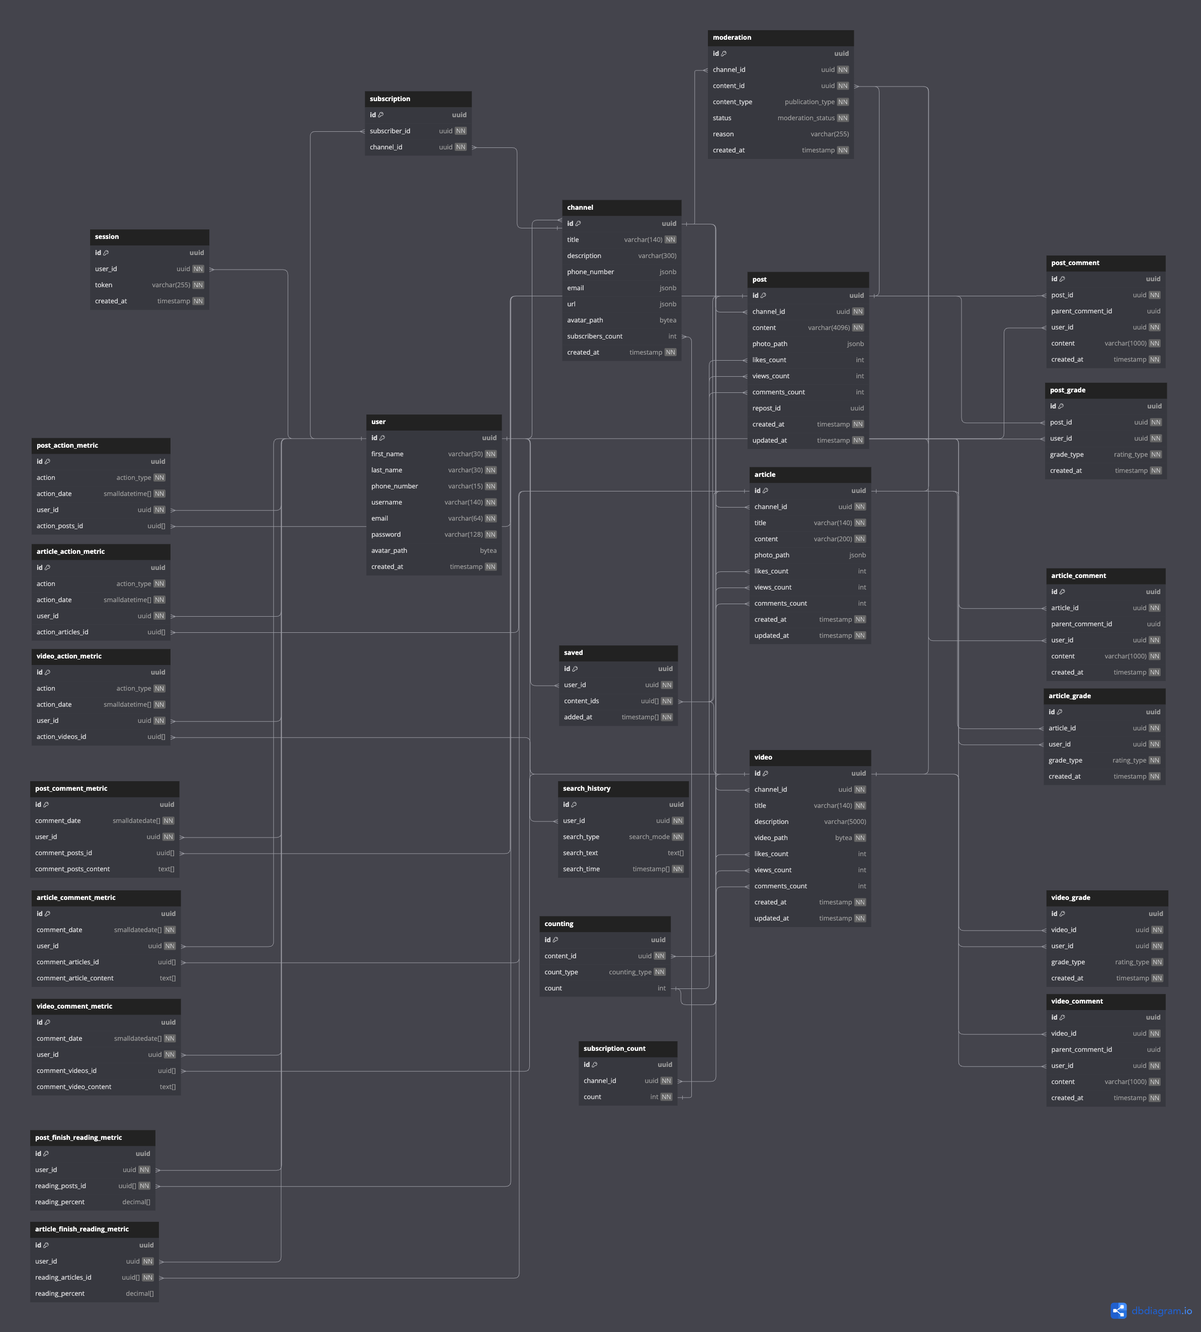
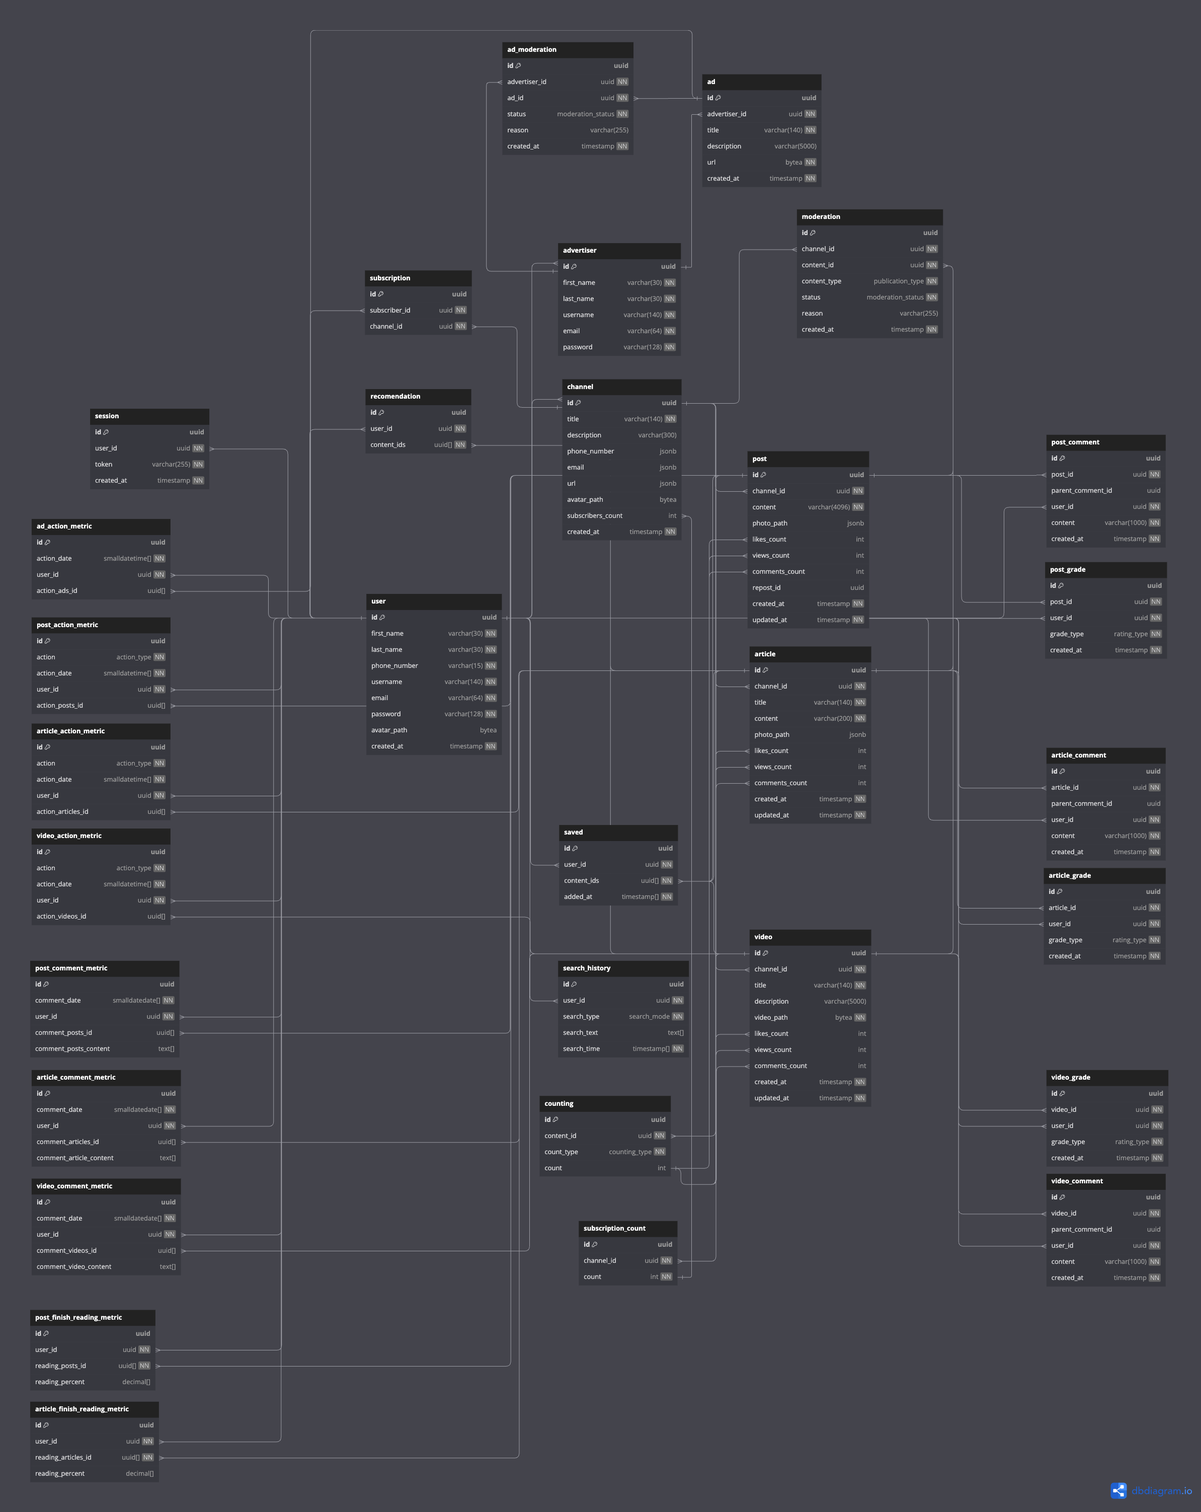
add ads2

diff --git a/README.md b/README.md
@@ -250,12 +250,15 @@ Nginx вместе с Kubernetes могут обеспечить высокую 
 |:----------------------:|:-----------------------------:|
 |        session         |Данные сессий пользователей|
 |         user           |Данные пользователя, которые заполняются при регистрации и дальнейшего заполнения профиля|
+|         advertiser           |Данные рекламодателя, которые заполняются при регистрации и дальнейшего заполнения профиля|
 |         channel        |Данные канала, которые заполняются при создании и приобретаемые после (количество подписчиков, которое хранится в **subscribers_count**)|
+|         ad        |Данные рекламы, которые заполняются при создании|
 |       subscription       |Данные о подписчиках канала|
 |          post            |Данные о посте, заполняемые при его создании и приобретаемые после публикации (такие как количество лайков, просмотров и комментариев, хранимые в **likes_count**, **views_count**, **comments_count** соответсвенно)|
 |       article            |Данные о статье, заполняемые при его создании и приобретаемые после публикации (такие как количество лайков, просмотров и комментариев, хранимые в **likes_count**, **views_count**, **comments_count** соответсвенно)|
 |         video            |Данные о видео, заполняемые при его создании и приобретаемые после публикации (такие как количество лайков, просмотров и комментариев, хранимые в **likes_count**, **views_count**, **comments_count** соответсвенно)|
 |        moderation        |Данные о прохождении модерации|
+|        ad_moderation        |Данные о прохождении модерации|
 |           saved          |Данные о сохраненных публикациях|
 |      search_history      |Данные о поисковых запросах пользователей (запросы хранятся в виде массива, в который попадают в зависимости от выбранного параметра поиска)|
 |         counting         |Данные о числовых значениях таких величин как просмотры, лайки и комментарии|
@@ -263,6 +266,7 @@ Nginx вместе с Kubernetes могут обеспечить высокую 
 |    post_action_metric    |Данные о взаимодействии пользователей с постами (лайки/просмотры). Поле **action** содержит тип взаимодействия: view/like, а поле **action_posts_id** содержит массив id постов, с которыми происходило взаимодействие|
 |  article_action_metric   |Данные о взаимодействии пользователей со статьями, по такому же принципу, что и взаимодействие с постами(описано выше)|
 |   video_action_metric    |Данные о взаимодействии пользователей с видео, по такому же принципу, что и взаимодействие с постами(описано выше)|
+|   ad_action_metric    |Данные о взаимодействии пользователей c рекламой|
 |    post_comment_metric   |Данные о написанных пользователями комментариях под постами|
 |  article_comment_metric  |Данные о написанных пользователями комментариях под статьями|
 |   video_comment_metric   |Данные о написанных пользователями комментариях под видео|
@@ -282,10 +286,10 @@ Nginx вместе с Kubernetes могут обеспечить высокую 
 |   |        Таблица         |           Хранилище            |      Обоснование выбора |
 |:-:|:----------------------:|:------------------------------:|:-----------------------:|
 |1|        session         |Redis|Хорошо подходит для хранения сеансов из-за своей высокой производительности и возможности установки TTL для ключей. Это позволяет эффективно управлять временем жизни сеансов и обеспечивать быстрый доступ к данным.|
-|2|         user, channel, subscription, post, article, video, moderation |PostgreSQL|PostgreSQL предлагает полную поддержку ACID-транзакций и мощные возможности индексации, что делает его хорошим выбором для наших целей (хранение данных модерации, пользователей, каналов и публикаций). Также PostgreSQL хорошо масштабируется и поддерживает сложные запросы.|
+|2|         user, channel, advertiser, subscription, post, article, video, ad, moderation, ad_moderation |PostgreSQL|PostgreSQL предлагает полную поддержку ACID-транзакций и мощные возможности индексации, что делает его хорошим выбором для наших целей (хранение данных модерации, пользователей, каналов и публикаций). Также PostgreSQL хорошо масштабируется и поддерживает сложные запросы.|
 |3|        saved, counting, subscription_count |MongoDB|Лучшее решение для хранения key-value, за счет возможности хранить данные в виде JSON-подобных документов.|
 |4|      search_history      |ElasticSearch|ElasticSearch специализируется на выполнении сложных поисковых запросов и анализе текстовых данных. Для хранения и обработки истории поиска, где важны текстовые запросы и их аналитика, ElasticSearch является лучшим выбором.|
-|5|post_finish_reading_metric, article_finish_reading_metric, post_action_metric, article_action_metric, video_action_metric, post_comment_metric, article_comment_metric, video_comment_metric|Cassandra|Обладает высокой масштабируемостью и может легко обрабатывать большие объемы данных на нескольких узлах.|
+|5|post_finish_reading_metric, article_finish_reading_metric, post_action_metric, article_action_metric, video_action_metric, post_comment_metric, article_comment_metric, video_comment_metric, ad_action_metric|Cassandra|Обладает высокой масштабируемостью и может легко обрабатывать большие объемы данных на нескольких узлах.|
 |6|   post_grade, post_comment, article_grade, article_comment, video_grade, video_comment|MongoDB|MongoDB удобно использовать для хранения коллекций данных с переменной структурой, таких как оценки пользователей, где каждая запись может содержать разное количество идентификаторов объектов и оценок.|
 
 СУБД Chroma будем использовать для хранения эмбеддингов для рекомендаций.
@@ -294,13 +298,15 @@ Nginx вместе с Kubernetes могут обеспечить высокую 
 
 Для более быстрого доступа к данным будем использовать индексы:
 
-- Для таблиц user, channel, subscription, post, article, video, moderation - id;
+- Для таблиц user, advertiser, channel, ad, subscription, post, article, video, moderation, ad_moderation - id;
 
 - Также для работы сервиса light search нужно добавить индекс для поля title таблицы channel;
 
 - Для таблиц post_finish_reading_metric, post_action_metric, post_comment_metric,  post_grade, post_comment - по полю post_id;
 
 - Для таблиц video_action_metric, video_comment_metric, video_grade, video_comment - по полю video_id;
+
+- Для таблицы ad_action_metric - по полю ad_id;
 
 - Для таблиц article_finish_reading_metric, article_action_metric, article_comment_metric article_comment, article_grade - по полю article_id;
 
@@ -401,6 +407,25 @@ D(1, 2) = min(`D(0,2) + 1; D(1,1) + 1; D(0, 1) + 1`) = min(`2+1; 1+1; 1+1`) = 2.
 - Если пользователь вводит букву `h`, то мы сразу же можем дополнить это слово до `hotel`, так как в нашем датасете (*в нашем проекте датасетом является история поиска всех пользователей*) не существует больше других слов/сочетаний слов, начинающихся с буквы `h`.
 
 - Если же пользователь вводит букву `m`, то уже в данном случае отображаются три слова для автодополнения: `marriot`, `mercure`, `munchen`, `munich`. Если же далее пользователь введет букву `a` или `e`, то сразу можно будет дополнить до конечного слова, то если же введет `u`, то уже будет предложено два слова для автопродления(см. изображение выше).
+
+### 3. Реклама[^10]
+
+Также как и с рекомендациями у пользователя есть некая положительная история взаимодействия, которая называется позитивами (это лайки на какие-то публикации, долгие просмотры, дочитки постов/статей до конца и т.д.), но также в данном случае учитывается и поисковые запросы. Из всего массива позитивов, нам нужно взять максимально сильные и в то же время разные, для этого используем алгоритм **DPP** *Determinantal Point
+Processes* (вероятностная модель, которая используется для выбора подмножества объектов (позитивов в нашем случае) из некторого набора данных, учитывая взаимодействия между объектами внутри подмножества). Для выделения ключевых слов из публикаций, с которыми взаимодействовал пользователь, применяется алгоритм обработки естественного языка **(Natural Language Processing, NLP)**. Грубо говоря, на входе у нас есть большая статья, нам нужно получить краткую выжимку с ключевыми словами этой статьи. Получаем, что у нас есть пользователь с некой историей взаимодействия с контентом и массивом ключевых слов контента, с которым он взаимодействовал.
+
+Предположим, что рекламодатель уже авторизировался в Дзене через VK Рекламу и уже создал рекламную кампанию. Он указал **сайт** (как пример), на который будете происходит переход, заголовок, текст, ключевые слова, на которые хочет таргетироваться и ставку, которая может быть списана с его счета, если произойдет клик по саму рекламному банеру (либо же просто показ, это определяется самим рекламодателем).
+
+![Реклама](img/ads.png)
+
+Рекламодатель создал рекламную кампанию, указав сайт, где продает бетон(как пример), ключевое слово: *бетон*, заголовок, описание, фотографию и указал ставку в 100₽ за клик по его банеру. Все факторы вместе со статистикой (если этот банер уже крутился) подаются на вход **MatrixNet**^[11] (модель на вход которой мы подаем набор факторов, а на выходе получаем число, в данном случае, это обобщенное качество нашего баннера). 
+
+Имея на руках численное качество и ставку, мы вводим некую функцию Value, которая зависит от этих параметров и будет вычислять значение, с помощью которого мы сможем ранжировать эти баннера.
+
+Далее происходит аукцион (процесс выбора победителей, исходя из значения Value)
+
+![Реклама](img/ads2.png)
+
+У нас есть только 3 ячейки под рекламные баннеры, а рекламных предложения 4. Мы подаем все 4 баннера в аукцион и на выходе получаем, что первый баннер мы покажем (и в случае клика спишем 100$), второй тоже покажем и спишем 800₽ в случае клика, третий показывать не будем и четвертый покажем и спишем 100₽. Выборка баннеров произошла по значению Value. И вот пользователь получил в своей ленте 3 рекламных баннера, которые больше всего ему подходят.
 
 ## Часть 8. Технологии <a name="8"></a>
 
@@ -579,3 +604,7 @@ D(1, 2) = min(`D(0,2) + 1; D(1,1) + 1; D(0, 1) + 1`) = min(`2+1; 1+1; 1+1`) = 2.
 [^8]: [Расстояние Левенштейна](https://habr.com/ru/articles/676858/)
 
 [^9]: [ElasticSearch: You Complete Me](https://www.elastic.co/blog/you-complete-me)
+
+[^10]: [Рекламные трафареты в поиске аукционы и алгоритмы](https://www.youtube.com/watch?v=wyDy_Dms51w&ab_channel=YandexforDevelopers)
+
+[^11]: [Технологии. Матрикснет](https://yandex.ru/company/technologies/matrixnet/)
